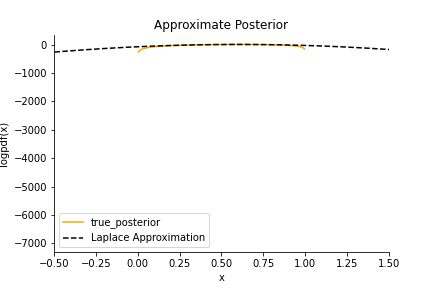
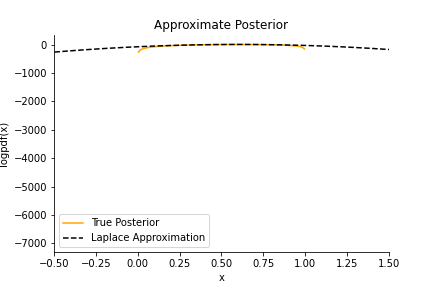
Reformated the notebook

Changed region(s): [[0.1505, 0.7188, 0.4815, 0.8125]]

diff --git a/LaplaceApprox.py b/LaplaceApprox.py
@@ -74,13 +74,13 @@ class LaplaceApproximation:
         self.cov = cov
         return self.laplace_approx
 
-    def plot_approx_posterior(self, x=jnp.linspace(-5, 5, 1000), true_posterior=None):
+    def plot_approx_posterior(self, x=jnp.linspace(-5, 5, 1000), true_posterior=None, Color= 'orange', Label='True Posterior'):
         if self.laplace_approx is None:
             raise ValueError("Run approx_posterior first")
         x = x.reshape(-1, 1)
         fig = plt.figure()
         if true_posterior is not None:
-            plt.plot(x, true_posterior.prob(x), label="true_posterior", color="orange")
+            plt.plot(x, true_posterior.prob(x), label=Label, color=Color)
         plt.plot(
             x,
             self.laplace_approx.prob(x),
@@ -104,7 +104,7 @@ class LaplaceApproximation:
         fig = plt.figure()
         if true_posterior is not None:
             plt.plot(
-                x, true_posterior.log_prob(x), label="true_posterior", color="orange"
+                x, true_posterior.log_prob(x), label="True Posterior", color="orange"
             )
         plt.plot(
             x,
